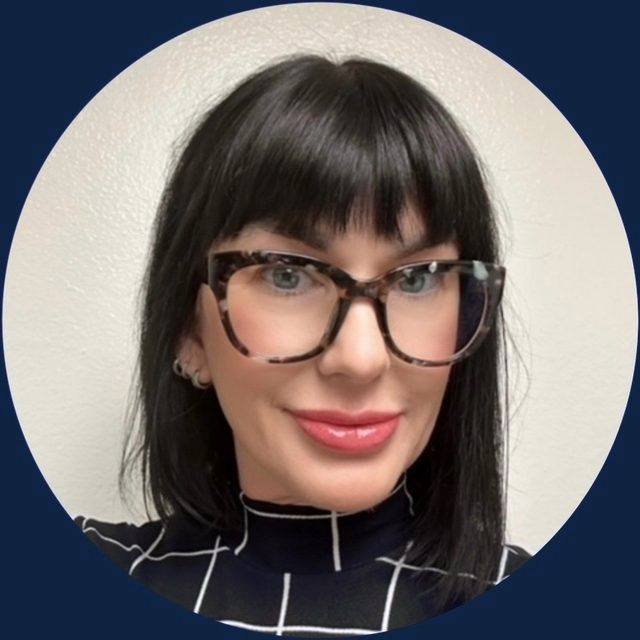
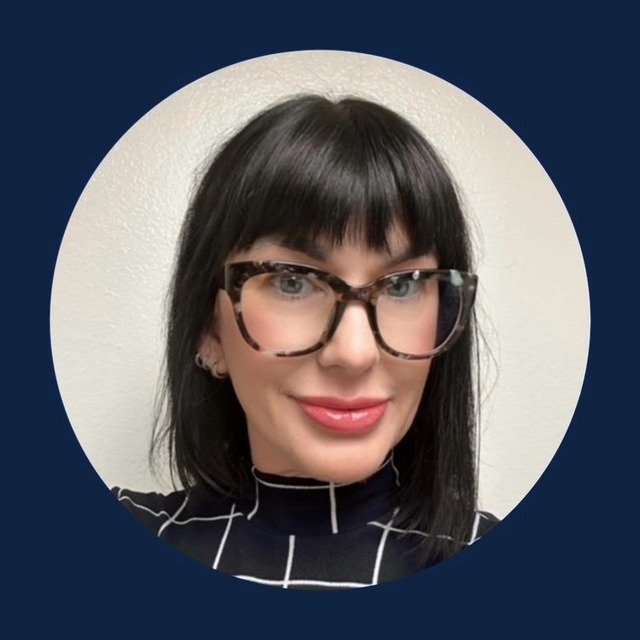
Combine homepage by topic; fix headshot crop

diff --git a/index.html b/index.html
@@ -58,7 +58,7 @@
         --shadow: 0 18px 46px rgba(0, 0, 0, .30);
       }
     }
-@media (prefers-color-scheme: dark) { body .guide-card.coming-soon { background: var(--paper-2); } body .check-items { background: var(--paper-2); } }
+@media (prefers-color-scheme: dark) { body .check-items { background: var(--paper-2); } }
 
     * { box-sizing: border-box; }
     html { scroll-behavior: smooth; }
@@ -128,92 +128,17 @@
     }
     .menu-toggle-lines { width: 19px; display: grid; gap: 4px; }
     .menu-toggle-lines span { display: block; height: 2px; border-radius: 2px; background: currentColor; }
-
-    .hero { padding: clamp(34px, 5vw, 66px) 0 70px; background: #0F2340; color: #fff; }
-    .opening-message {
-      position: relative;
-      margin-bottom: clamp(34px, 5vw, 58px);
-      padding: clamp(30px, 5vw, 58px) clamp(26px, 6vw, 74px);
-      border-left: 9px solid var(--gold);
-      background: #fff;
-      color: #0F2340;
-      box-shadow: 0 20px 46px rgba(0, 0, 0, .24);
-    }
-    .hero .opening-message .eyebrow { margin-bottom: 14px; color: #7a5a0a; }
-    .opening-message h1 { max-width: 1020px; margin: 0; font-size: clamp(2.7rem, 5.6vw, 5.6rem); }
-    .hero .eyebrow { color: #fff; }
-    .hero-copy > p:not(.eyebrow) { color: rgba(255,255,255,.86); }
-    .hero .button { border-color: #fff; background: #fff; color: #0F2340; }
-    .hero .button:hover { background: #e7ebff; }
-    .hero .text-link { color: #fff; }
-    .hero-grid { display: grid; grid-template-columns: minmax(0, 1fr); align-items: center; gap: clamp(34px, 6vw, 80px); max-width: 880px; }
     .eyebrow { margin: 0 0 18px; color: var(--coral); font-weight: 700; font-size: .85rem; letter-spacing: .07em; text-transform: uppercase; }
     h1, h2, h3 { margin-top: 0; font-family: "Newsreader", serif; line-height: 1.03; letter-spacing: -.035em; }
     h1 { max-width: 760px; margin-bottom: 22px; font-size: clamp(3.05rem, 6.8vw, 6.5rem); font-weight: 650; text-wrap: balance; }
     h2 { font-size: clamp(2.2rem, 4.5vw, 4rem); margin-bottom: 20px; }
     h3 { font-size: clamp(1.35rem, 2.5vw, 1.8rem); margin-bottom: 9px; }
-    .hero-copy > p:not(.eyebrow) { max-width: 700px; margin: 0 0 18px; color: rgba(255,255,255,.86); font-size: clamp(1.08rem, 1.8vw, 1.28rem); }
-    .hero-copy .hero-reassurance { margin-bottom: 30px; color: #fff; font-weight: 700; }
-    .hero-copy .hero-reassurance::first-line { color: #f6d781; font-size: 1.12em; }
-    .hero .hero-subhead { margin: 16px 0 0; color: #0F2340; font-size: 1.18rem; line-height: 1.5; max-width: 44rem; }
-    .founder-photo { float: left; width: clamp(138px, 36vw, 176px); height: auto; aspect-ratio: 1 / 1; border-radius: 50%; border: 3px solid var(--gold); margin: 6px 20px 12px 0; }
     .actions { display: flex; align-items: center; gap: 18px; flex-wrap: wrap; }
     .button { display: inline-flex; align-items: center; justify-content: center; min-height: 51px; padding: 0 22px; border: 1px solid var(--teal-deep); border-radius: 999px; background: var(--teal-deep); color: var(--paper); font-weight: 700; text-decoration: none; transition: transform .18s ease, background .18s ease; }
     @media (prefers-color-scheme: dark) { .button { color: #112122; } }
     .button:hover { transform: translateY(-2px); background: var(--teal); }
-    .text-link { color: var(--teal-deep); font-weight: 700; text-underline-offset: 5px; }
-    .hero-art { position: relative; }
-    .hero-art img { position: relative; width: 100%; aspect-ratio: 3 / 1; min-height: 260px; object-fit: cover; object-position: center 56%; border: 4px solid #fff; border-radius: 8px; box-shadow: 0 18px 40px rgba(0, 0, 0, .22); }
-    .experience-note { position: relative; width: min(310px, 82%); margin: -24px 16px 0 auto; padding: 16px 20px; background: #fff; color: #0F2340; border: 0; box-shadow: 0 12px 28px rgba(0, 0, 0, .18); font-size: .92rem; font-weight: 600; }
-    .experience-note strong { display: block; color: #0F2340; font-family: "Newsreader", serif; font-size: 1.45rem; }
-
-    .trust-strip { border-top: 1px solid var(--line); border-bottom: 1px solid var(--line); }
-    .trust-grid { display: grid; grid-template-columns: .9fr 1.1fr; gap: 42px; align-items: center; padding-block: 38px; }
-    .trust-grid h2 { margin: 0; font-size: clamp(1.6rem, 3vw, 2.5rem); }
-    .trust-grid p { margin: 0; color: var(--muted); }
 
     section { scroll-margin-top: 124px; }
-    .pathways { padding: clamp(76px, 10vw, 128px) 0; }
-    .section-intro { display: grid; grid-template-columns: .75fr 1.25fr; gap: 42px; align-items: end; margin-bottom: 50px; }
-    .section-intro p { max-width: 670px; margin: 0 0 8px auto; color: var(--muted); font-size: 1.08rem; }
-    .path-list { border-top: 1px solid var(--line); }
-    .path {
-      display: grid;
-      grid-template-columns: 72px minmax(210px, .65fr) 1.35fr;
-      gap: 28px;
-      align-items: start;
-      padding: 28px 0;
-      border-bottom: 1px solid var(--line);
-    }
-    .path-num { color: var(--coral); font-family: "Newsreader", serif; font-size: 1.4rem; font-weight: 650; }
-    .path h3 { margin: 0; }
-    .path p { margin: 0; color: var(--muted); }
-    .path .path-link { grid-column: 3; color: var(--ink); font-weight: 700; text-underline-offset: 5px; }
-
-    .guides { padding: 0 0 clamp(76px, 10vw, 128px); }
-    .free-guide {
-      display: grid;
-      grid-template-columns: 1.35fr .65fr;
-      gap: clamp(28px, 5vw, 56px);
-      align-items: center;
-      margin-bottom: 34px;
-      padding: clamp(30px, 5vw, 48px);
-      border-radius: var(--radius);
-      background: #0F2340;
-      color: #fff;
-      box-shadow: var(--shadow);
-    }
-    .free-guide .eyebrow { color: #f6d781; }
-    .free-guide h3 { font-size: clamp(1.8rem, 3.4vw, 2.6rem); margin-bottom: 12px; }
-    .free-guide p { margin: 0; color: rgba(255,255,255,.88); }
-    .free-guide p + p { margin-top: 12px; }
-    .free-guide-actions { display: grid; gap: 14px; justify-items: start; }
-    .free-badge { background: var(--gold); color: #0F2340; }
-    .free-guide .button { border-color: var(--gold); background: var(--gold); color: #0F2340; }
-    .free-guide .button:hover { background: #e6c268; }
-    .free-guide .full-guide-link { color: #fff; font-weight: 700; text-underline-offset: 5px; }
-    .free-guide .free-meta { margin: 0; color: rgba(255,255,255,.75); font-size: .88rem; }
-    .guide-grid { display: grid; grid-template-columns: repeat(2, minmax(0, 1fr)); gap: 18px; }
     .guide-card {
       appearance: none;
       width: 100%;
@@ -231,15 +156,11 @@
     }
     .guide-card:hover { transform: translateY(-3px); border-color: var(--teal); box-shadow: var(--shadow); }
     .guide-card:nth-child(5) { grid-column: 1 / -1; min-height: 190px; }
-    .guide-card.coming-soon { min-height: 190px; background: var(--teal-soft); cursor: default; box-shadow: none; }
-    .guide-card.coming-soon:hover { transform: none; border-color: var(--line); box-shadow: none; }
-    .guide-card.coming-soon .guide-type { color: var(--muted); }
     .guide-type { display: block; margin-bottom: 28px; color: var(--teal); font-size: .82rem; font-weight: 700; letter-spacing: .06em; text-transform: uppercase; }
     .guide-card h3 { margin-bottom: 12px; }
     .guide-card p { margin: 0; color: var(--muted); }
     .guide-offer { display: flex; align-items: center; gap: 10px; flex-wrap: wrap; margin-top: 20px; }
     .guide-offer strong { color: var(--teal-deep); font-size: 1.05rem; }
-    .offer-badge { display: inline-flex; align-items: center; min-height: 28px; padding: 4px 10px; border-radius: 999px; background: var(--teal-soft); color: var(--teal-deep); font-size: .76rem; font-weight: 800; letter-spacing: .03em; text-transform: uppercase; }
     .card-lite-link { align-self: flex-start; margin-top: 12px; color: var(--gold); font-weight: 700; text-underline-offset: 4px; }
     .guide-open { display: inline-block; margin-top: 18px; color: var(--teal-deep); font-weight: 700; text-decoration: underline; text-underline-offset: 5px; }
 
@@ -264,25 +185,11 @@
     .preview-list { margin: 0; padding-left: 1.25rem; color: var(--muted); }
     .preview-list li + li { margin-top: 10px; }
     .price-row { display: flex; align-items: center; justify-content: space-between; gap: 24px; margin-top: 32px; padding-top: 24px; border-top: 1px solid var(--line); }
-    .dialog-price-block .offer-badge { margin-bottom: 9px; }
     .price { margin: 0; font-family: "Newsreader", serif; font-size: 2rem; font-weight: 650; line-height: 1.1; }
     .price-note { display: block; margin-top: 5px; color: var(--muted); font-size: .84rem; }
     .buy-button { display: inline-flex; align-items: center; justify-content: center; min-height: 51px; padding: 0 22px; border: 1px solid var(--teal-deep); border-radius: 999px; background: var(--teal-deep); color: var(--paper); font: inherit; font-weight: 700; text-decoration: none; transition: transform .18s ease, background .18s ease; }
     .buy-button:hover { transform: translateY(-2px); background: var(--teal); }
     @media (prefers-color-scheme: dark) { .buy-button { color: #112122; } }
-
-    .method { padding: clamp(70px, 9vw, 112px) 0; background: #0F2340; color: #fff; }
-    @media (prefers-color-scheme: dark) { .method { background: #0F2340; } }
-    .method .eyebrow { color: #fff; }
-    .method-grid { display: grid; grid-template-columns: .75fr 1.25fr; gap: clamp(42px, 7vw, 92px); }
-    .method-lead { position: sticky; top: 30px; align-self: start; }
-    .method-lead p:not(.eyebrow) { color: #cfe2df; }
-    .steps { display: grid; gap: 0; }
-    .step { display: grid; grid-template-columns: 58px 1fr; gap: 20px; padding: 26px 0; border-top: 1px solid rgba(255,255,255,.25); }
-    .step:last-child { border-bottom: 1px solid rgba(255,255,255,.25); }
-    .step-no { width: 40px; height: 40px; display: grid; place-items: center; border-radius: 50%; background: #f4c664; color: #183335; font-weight: 800; }
-    .step p { margin: 0; color: #cfe2df; }
-    .step h3 { margin: 0 0 7px; color: #fff; }
 
     .checklist { padding: clamp(72px, 9vw, 112px) 0; }
     .check-card { display: grid; grid-template-columns: 1fr 1fr; background: var(--paper-2); border: 1px solid var(--line); box-shadow: var(--shadow); }
@@ -308,9 +215,6 @@
     .contact-email { display: inline-flex; align-items: center; min-height: 51px; padding: 0 22px; border-radius: 999px; background: var(--teal-deep); color: var(--paper); font-weight: 700; text-decoration: none; }
     .contact-email:hover { background: var(--teal); }
     @media (prefers-color-scheme: dark) { .contact-email { color: #112122; } }
-
-    .faq { padding: clamp(72px, 9vw, 110px) 0; border-top: 1px solid var(--line); }
-    .faq-grid { display: grid; grid-template-columns: .7fr 1.3fr; gap: clamp(40px, 7vw, 80px); }
     details { border-top: 1px solid var(--line); }
     details:last-child { border-bottom: 1px solid var(--line); }
     summary { position: relative; padding: 22px 42px 22px 0; cursor: pointer; font-weight: 700; list-style: none; }
@@ -318,12 +222,6 @@
     summary::after { content: "+"; position: absolute; right: 4px; top: 15px; color: var(--coral); font-family: "Newsreader", serif; font-size: 1.8rem; font-weight: 500; }
     details[open] summary::after { content: "–"; }
     details p { margin: -5px 36px 24px 0; color: var(--muted); }
-    .faq-list { border-top: 1px solid var(--line); }
-    .faq-item { padding: 28px 0; border-bottom: 1px solid var(--line); }
-    .faq-item h3 { margin-bottom: 12px; font-size: clamp(1.35rem, 2.4vw, 1.75rem); line-height: 1.18; }
-    .faq-item p { margin: 0; color: var(--muted); }
-    .faq-guide { color: var(--teal-deep); font-weight: 700; text-underline-offset: 4px; }
-    .faq-guide:hover { color: var(--teal); }
     .faq-more { margin-top: 46px; }
     .faq-more h3 { margin-bottom: 14px; }
 
@@ -362,18 +260,8 @@
     }
     @media (max-width: 820px) {
       .wrap { width: min(calc(100% - 28px), var(--max)); }
-      .hero { padding-top: 26px; }
-      .opening-message { border-left-width: 7px; }
       .hero-grid, .trust-grid, .section-intro, .method-grid, .check-card, .about-grid, .contact-grid, .faq-grid, .footer-grid, .guide-grid, .free-guide { grid-template-columns: 1fr; }
       .guide-card:nth-child(5) { grid-column: auto; min-height: 230px; }
-      .hero-art { margin-top: 16px; }
-      .hero-art img { min-height: 210px; }
-      .trust-grid, .section-intro { gap: 18px; }
-      .section-intro p { margin-left: 0; }
-      .path { grid-template-columns: 46px 1fr; gap: 10px 16px; }
-      .path p { grid-column: 2; }
-      .path .path-link { grid-column: 2; }
-      .method-lead { position: static; }
       .check-items { order: 2; }
       .disclaimer { margin-left: 0; }
     }
@@ -384,17 +272,9 @@
       .nav .brand-logo { width: 58px; height: 58px; }
       .nav .brand { gap: 10px; font-size: 1.08rem; }
       .menu-toggle { min-height: 43px; padding-inline: 13px; }
-      .opening-message { padding: 26px 22px; border-left-width: 6px; }
-      .opening-message h1 { font-size: clamp(2.35rem, 11.7vw, 3.4rem); }
-      .hero-art img { aspect-ratio: 1.4 / 1; object-position: 66% center; }
       .actions { align-items: stretch; flex-direction: column; }
       .button { width: 100%; }
-      .text-link { align-self: center; }
-      .path { padding: 23px 0; }
-      .step { grid-template-columns: 44px 1fr; gap: 12px; }
       .check-copy, .check-items { padding: 28px 22px; }
-      .free-guide { padding: 26px 22px; }
-      .free-guide .button { width: 100%; }
       .guide-card { min-height: 0; padding: 24px 22px; }
       .guide-card:nth-child(5) { min-height: 0; }
       .price-row { align-items: stretch; flex-direction: column; }
@@ -407,17 +287,9 @@
     @media print {
       header, .actions, .copy-button, .copy-status { display: none !important; }
       body { background: #fff; color: #111; }
-      .method { background: #fff; color: #111; border-block: 1px solid #777; }
-      .method * { color: #111 !important; }
       .hero, .pathways, .method, .checklist, .faq { padding-block: 32px; }
-      .hero-art img { max-height: 240px; }
       details p { display: block; }
     }
-  
-    .progress-banner { position: relative; z-index: 40; padding: 11px 18px; background: var(--gold); color: #0F2340; text-align: center; font-size: .98rem; font-weight: 700; line-height: 1.35; }
-    .progress-banner strong { font-weight: 900; letter-spacing: .01em; }
-    .progress-banner a { color: #0F2340; font-weight: 900; text-decoration: underline; text-underline-offset: 3px; }
-    .progress-banner a:hover { text-decoration-thickness: 2px; }
     .guide-card.featured-guide { grid-column: 1 / -1; display: flex; align-items: flex-end; justify-content: space-between; gap: clamp(24px, 4vw, 52px); min-height: 0; padding: clamp(30px, 4.5vw, 50px); border: 3px solid var(--gold); background: #0F2340; color: #fff; cursor: default; box-shadow: 0 22px 50px rgba(16, 33, 147, .28); }
     .guide-card.featured-guide:hover { transform: none; border-color: var(--gold); box-shadow: 0 22px 50px rgba(16, 33, 147, .28); }
     .featured-guide .guide-type { margin-bottom: 20px; color: #f3d27a; font-size: .9rem; }
@@ -427,23 +299,10 @@
     .progress-status span { display: inline-flex; align-items: center; padding: 7px 11px; border: 1px solid rgba(255,255,255,.42); border-radius: 999px; background: rgba(255,255,255,.1); color: #fff; font-size: .86rem; font-weight: 750; line-height: 1.2; }
     .featured-guide-button { flex: 0 0 auto; display: inline-flex; align-items: center; justify-content: center; min-height: 52px; padding: 14px 20px; border-radius: 999px; background: var(--gold); color: #0F2340; font-weight: 900; line-height: 1.2; text-align: center; text-decoration: none; box-shadow: 0 10px 24px rgba(0,0,0,.22); }
     .featured-guide-button:hover { background: #e7c267; }
-    @media (max-width: 760px) { header .brand span { display: none; } header .nav .brand-logo { width: 84px; height: 84px; } .guide-card.featured-guide { flex-direction: column; align-items: flex-start; } .featured-guide-button { align-self: stretch; } .progress-banner { font-size: .92rem; } }
+    @media (max-width: 760px) { header .brand span { display: none; } header .nav .brand-logo { width: 84px; height: 84px; } .guide-card.featured-guide { flex-direction: column; align-items: flex-start; } .featured-guide-button { align-self: stretch; } }
 
     .button.outline { background: transparent; color: #fff; border: 2px solid #fff; }
-    .hero-price-line { margin-top: 16px; font-size: .98rem; opacity: .92; }
-    .free-strip { padding: clamp(56px, 8vw, 96px) 0 6px; }
-    .regional-center-feature { padding: clamp(6px, 2vw, 24px) 0 clamp(60px, 8vw, 100px); }
     .featured-guide-closing { margin-top: 14px; }
-    .in-the-works { padding: 0 0 clamp(60px, 8vw, 96px); }
-    .check-next { margin-top: 18px; }
-  
-    .proof-strip { padding: 20px 0; border-bottom: 1px solid var(--line); }
-    .proof-grid { display: flex; flex-wrap: wrap; gap: 10px 34px; justify-content: center; text-align: center; font-size: 1rem; }
-    .topic-picker { padding: clamp(40px, 6vw, 64px) 0 6px; }
-    .picker-label { font-size: 1.25rem; font-weight: 800; margin: 0 0 16px; color: #0F2340; }
-    .picker-row { display: flex; flex-wrap: wrap; gap: 12px; }
-    .picker-chip { display: inline-block; padding: 13px 20px; border: 2px solid #0F2340; border-radius: 999px; color: #0F2340; font-weight: 700; text-decoration: none; line-height: 1.2; }
-    .picker-chip:hover, .picker-chip:focus { background: #0F2340; color: #fff; }
   
     .welcome-strip { background: #0F2340; color: #fff; padding: clamp(22px, 4vw, 36px) 0; }
     .strip-flex { display: flex; gap: 20px; align-items: center; flex-wrap: wrap; }
@@ -507,7 +366,7 @@
       <div class="wrap strip-flex">
         <img class="strip-photo" src="beth-headshot.jpg" alt="Beth, founder of Anchor & Able Guide Co." />
         <div>
-          <p class="strip-hi">I'm Beth. I'm a parent of a disabled adult child, and I've been through this system for over 20 years — what I learned the hard way, I turned into these guides.</p>
+          <p class="strip-hi">I'm Beth. I'm a parent of a disabled adult child — what I learned the hard way, I turned into these guides.</p>
           <div class="actions">
             <a class="button" href="/free-guides.html">Start with a free guide</a>
             <a class="button outline" href="/ssi-parental-deeming-calculator">Try the free SSI deeming calculator</a>
@@ -669,7 +528,7 @@
                 <span>Coordinator assigned Nov 5</span>
                 <span>Budget not set</span>
               </div>
-              <p class="featured-guide-closing">This is the part nobody puts in the brochure. I write it down as it happens — the wins and the waiting — on the Regional Center page.</p>
+              <p class="featured-guide-closing">I write it down as it happens — the wins and the waiting — on the Regional Center page.</p>
             </div>
             <a class="featured-guide-button" href="/regional-center.html">See where we are now →</a>
           </article>
@@ -683,7 +542,7 @@
         <div class="about-copy">
           <p class="eyebrow">Why Anchor &amp; Able Guide Co.</p>
           <h2>One parent’s experience, shared with another.</h2>
-          <p>I'm Beth. I was a single parent working full-time while raising two children and navigating the system on my own. For over 20 years I've navigated disability benefits for my own daughter — the denials, the paperwork, the phone calls that go nowhere — and I've been through the adult application process myself, approved after more than two years of waiting, following up, and staying persistent.</p>
+          <p>I'm Beth. I was a single parent working full-time while raising two children and navigating the system on my own.</p>
           <p>Every guide comes from a real application, assessment, or appeal in my own family — nothing here is theory. The focus is on real steps: reading notices, organizing records, documenting needs, and knowing which questions to ask. It's going to be OK — one step at a time.</p>
         </div>
       </div>
@@ -698,12 +557,8 @@
               <p>It is for disabled people, parents, caregivers, representative payees, conservators, and family members who want a clearer way to understand benefit processes and prepare for the next step.</p>
             </details>
             <details>
-              <summary>Is Anchor &amp; Able Guide Co. a law firm?</summary>
-              <p>No. Anchor &amp; Able Guide Co. provides general educational information and practical process guidance, not legal advice or legal representation.</p>
-            </details>
-            <details>
-              <summary>Does this replace official agency guidance?</summary>
-              <p>No. Program rules can change and individual facts matter. Always confirm current requirements with the administering agency or a qualified professional before making a financial or legal decision.</p>
+              <summary>Is this legal advice — or a replacement for official guidance?</summary>
+              <p>No. Anchor &amp; Able Guide Co. provides general educational information and practical process guidance, not legal advice or legal representation. Program rules can change and individual facts matter — always confirm current requirements with the administering agency or a qualified professional before making a financial or legal decision.</p>
             </details>
             <details>
               <summary>What should I do with an urgent deadline?</summary>
